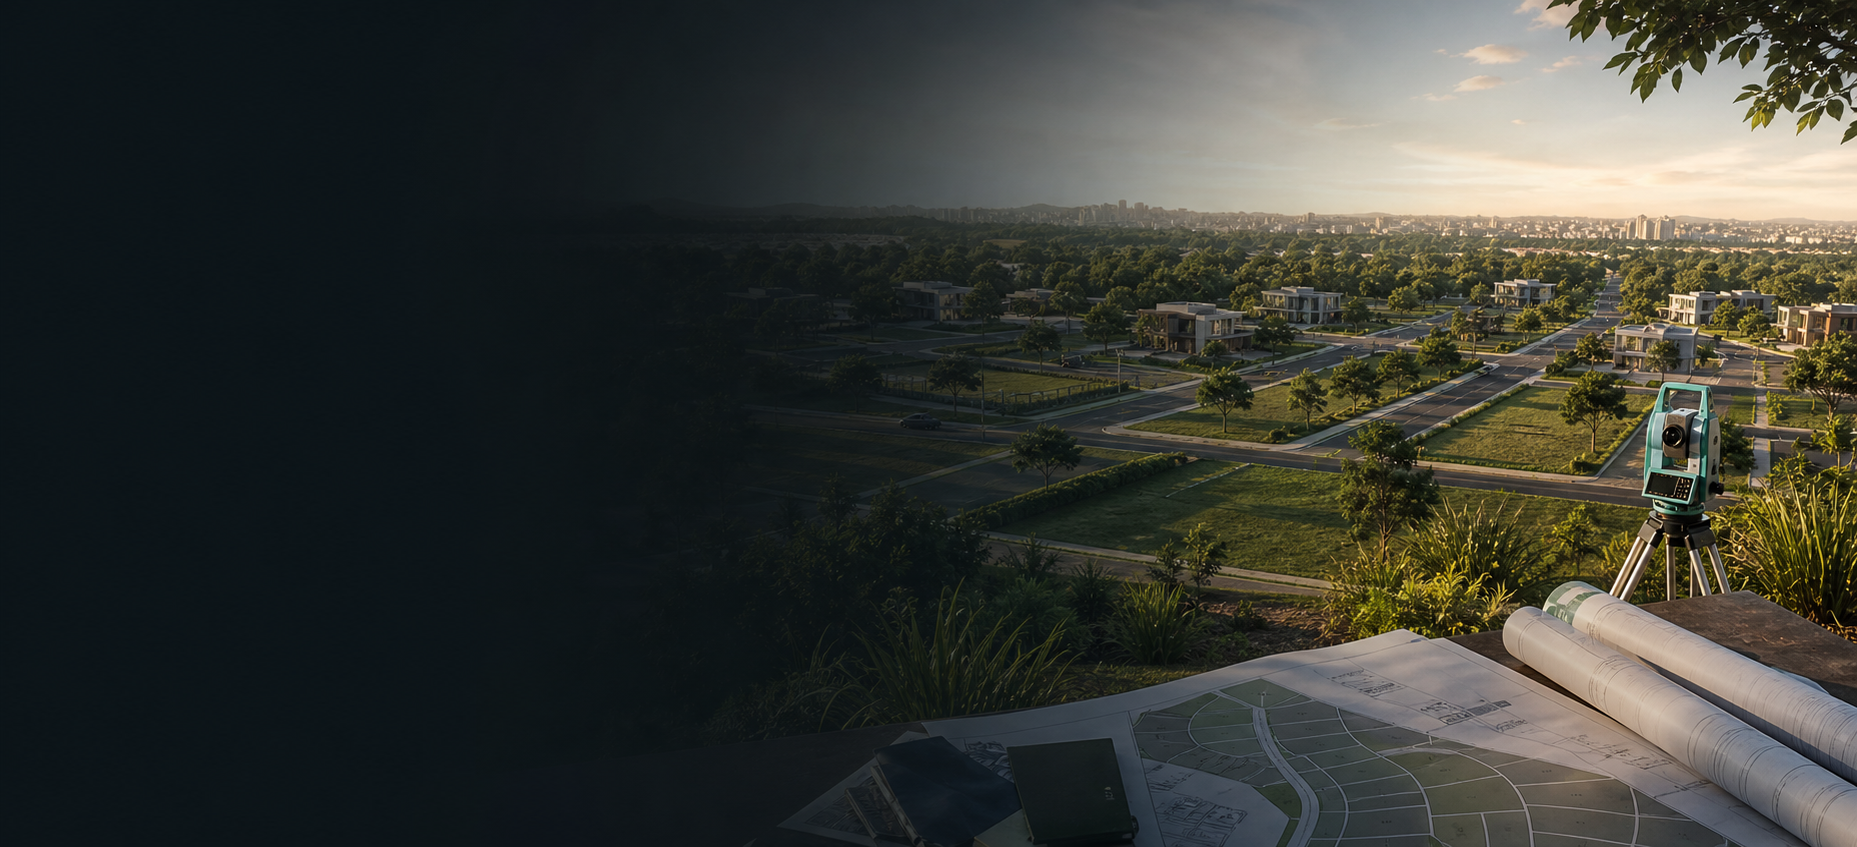
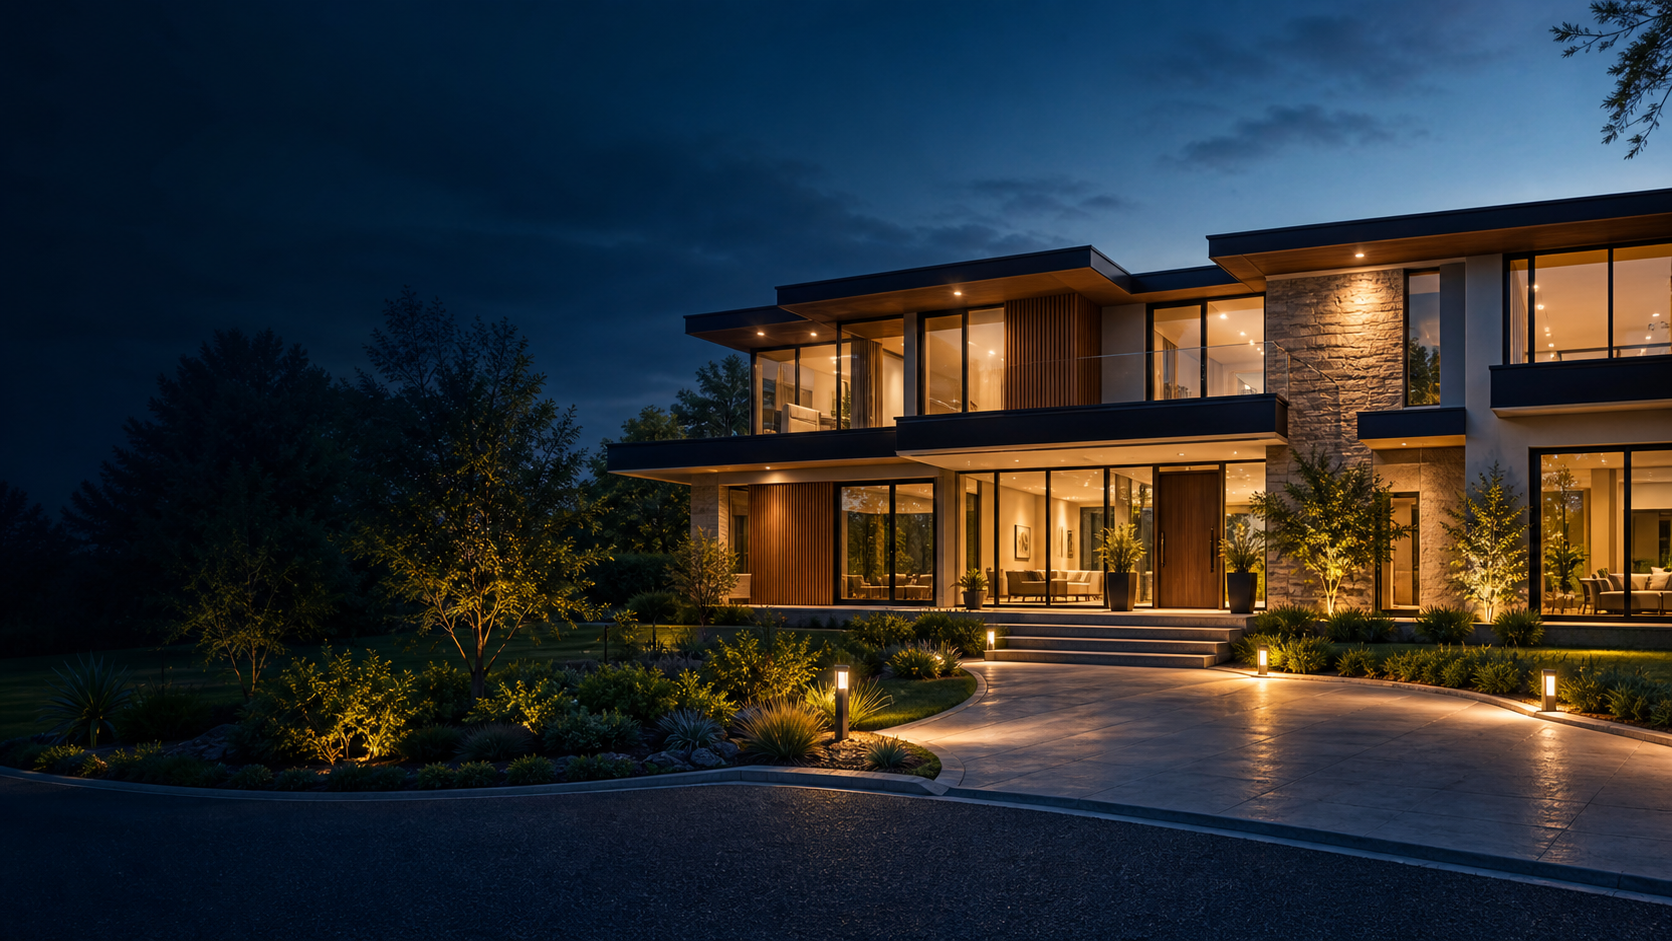
design

diff --git a/apps/web/layouts/app-shell.tsx b/apps/web/layouts/app-shell.tsx
@@ -66,11 +66,11 @@ export function AppShell({ children }: { children: React.ReactNode }) {
 
   return (
     <div className="min-h-screen">
-      <header className="sticky top-0 z-30 border-b border-white/10 bg-[#061733]/95 text-white backdrop-blur-xl">
-        <div className="mx-auto flex h-20 max-w-7xl items-center justify-between px-4 sm:px-6 lg:px-8">
+      <header className="sticky top-0 z-30 border-b border-white/10 bg-[#10284c]/95 text-white backdrop-blur-xl">
+        <div className="mx-auto flex h-16 max-w-7xl items-center justify-between px-4 sm:px-6 lg:px-8">
           <Link className="flex min-w-0 items-center gap-2 font-semibold" href="/">
             {hasLogo ? (
-              <span className="relative flex h-14 w-40 shrink-0 items-center overflow-hidden sm:h-16 sm:w-64 md:w-80">
+              <span className="relative flex h-11 w-36 shrink-0 items-center overflow-hidden sm:h-12 sm:w-56 md:w-64">
                 {logoLightUrl ? (
                   <img alt={settings.brandName} className="h-full w-full object-contain object-left dark:hidden" src={logoLightUrl} />
                 ) : null}
@@ -80,7 +80,7 @@ export function AppShell({ children }: { children: React.ReactNode }) {
                 <span className="sr-only">{settings.brandName}</span>
               </span>
             ) : isLoadingSettings ? (
-              <span aria-hidden="true" className="h-12 w-40 shrink-0 rounded-[8px] bg-white/10 sm:w-64 md:w-80" />
+              <span aria-hidden="true" className="h-11 w-36 shrink-0 rounded-[8px] bg-white/10 sm:h-12 sm:w-56 md:w-64" />
             ) : (
               <>
                 <span className="flex h-9 w-9 items-center justify-center rounded-[8px] bg-[#0d6efd] text-white">
@@ -156,7 +156,7 @@ export function AppShell({ children }: { children: React.ReactNode }) {
           </div>
         </div>
         {isMobileMenuOpen ? (
-          <div className="border-t border-white/10 bg-[#061733] px-4 py-3 md:hidden">
+          <div className="border-t border-white/10 bg-[#10284c] px-4 py-3 md:hidden">
             <nav className="mx-auto grid max-w-7xl gap-2">
               {[announceLink, ...links].map((item) => (
                 <Link

diff --git a/apps/api/src/modules/settings/settings.service.ts b/apps/api/src/modules/settings/settings.service.ts
@@ -11,9 +11,9 @@ export type PublicSiteSettings = {
 
 const defaults: PublicSiteSettings = {
   brandName: "Ce constroi",
-  logoUrl: "/brand/logo-light.svg",
-  logoLightUrl: "/brand/logo-light.svg",
-  logoDarkUrl: "/brand/logo-dark.svg"
+  logoUrl: "/brand/ce-constroi-logo.png",
+  logoLightUrl: "/brand/ce-constroi-logo.png",
+  logoDarkUrl: "/brand/ce-constroi-logo.png"
 };
 
 function stringValue(value: unknown) {

diff --git a/apps/web/services/settings.ts b/apps/web/services/settings.ts
@@ -3,9 +3,9 @@ import { SiteSettings } from "@/types/domain";
 
 export const defaultSiteSettings: SiteSettings = {
   brandName: "Ce constroi",
-  logoUrl: "/brand/logo-light.svg",
-  logoLightUrl: "/brand/logo-light.svg",
-  logoDarkUrl: "/brand/logo-dark.svg"
+  logoUrl: "/brand/ce-constroi-logo.png",
+  logoLightUrl: "/brand/ce-constroi-logo.png",
+  logoDarkUrl: "/brand/ce-constroi-logo.png"
 };
 
 export async function getSiteSettings() {

diff --git a/apps/web/app/page.tsx b/apps/web/app/page.tsx
@@ -156,7 +156,8 @@ export default function HomePage() {
         className="border-b border-white/10 bg-[#061733] bg-cover bg-center text-white"
         style={{
           backgroundImage:
-            "linear-gradient(90deg, rgba(3,13,34,0.96), rgba(5,24,58,0.86) 42%, rgba(8,46,112,0.38)), url('/brand/home-hero.png')"
+            "linear-gradient(90deg, rgba(3,13,34,0.94) 0%, rgba(6,20,45,0.82) 38%, rgba(8,28,62,0.38) 68%, rgba(8,28,62,0.16) 100%), url('/brand/home-hero.png')",
+          backgroundPosition: "center right"
         }}
       >
         <div className="mx-auto max-w-7xl px-4 py-16 sm:px-6 lg:px-8 lg:py-20">